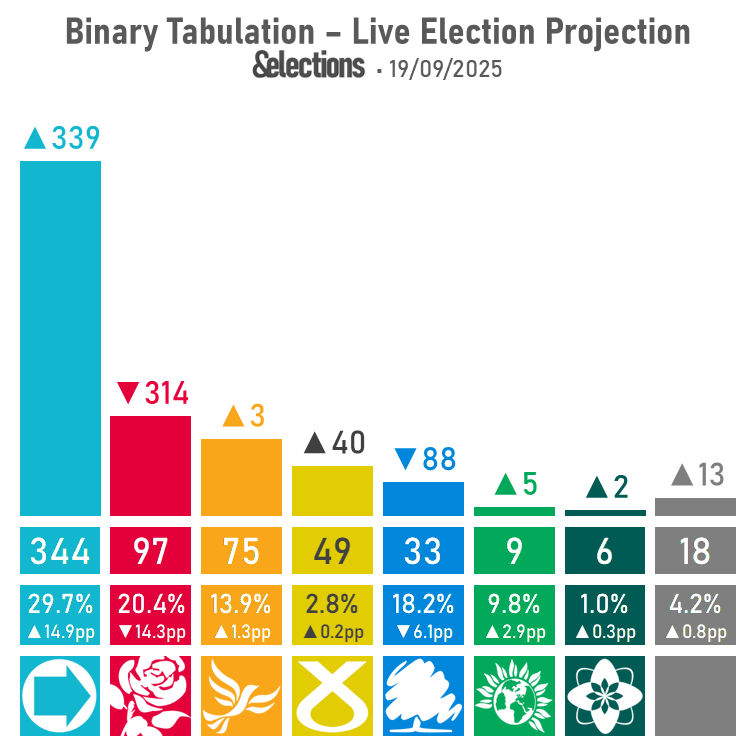
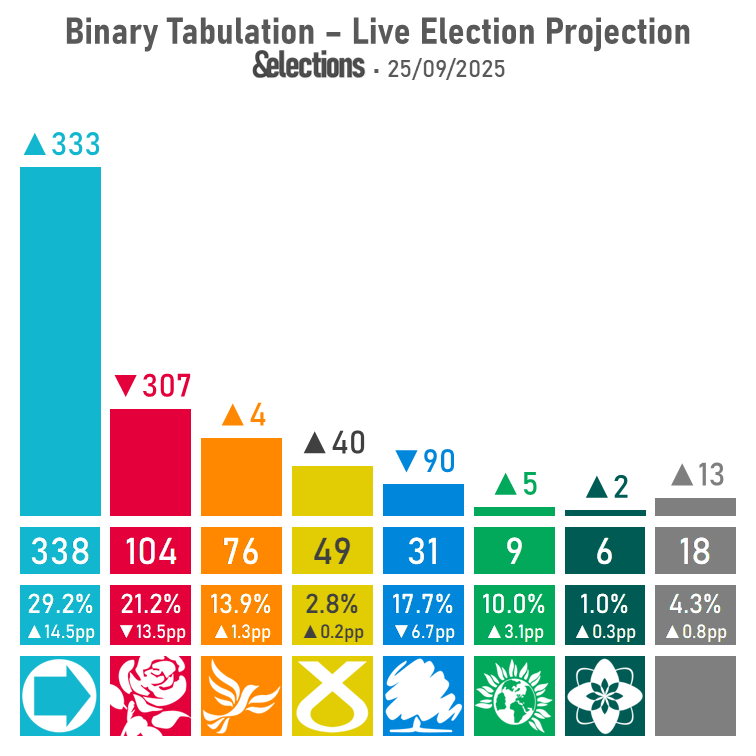
25/09/25 UK Projection
- Updated images
- Added article link

diff --git a/index.html b/index.html
@@ -371,6 +371,10 @@
                     </div>
                     <div class="datacontainer" id="data-blog">
                         <div class="blogtitles-container">
+                            <a href="https://andelections.substack.com/p/250925-uk-projection-reforms-surge" title="Open article in new tab" target="_blank" rel="noopener noreferrer">
+                                <h2>25/09/25 UK Projection: Reform's Surge Settles While Tories Plunge Further</h2>
+                                <p>25 Sep 2025 • As Reform's forecast majority softens, this week's projection is &Elections' worst-ever for the Tories and best-ever for the Greens.</p>
+                            </a>
                             <a href="https://andelections.substack.com/p/190925-uk-projection-labours-political" title="Open article in new tab" target="_blank" rel="noopener noreferrer">
                                 <h2>19/09/25 UK Projection: Labour's Political Misfortunes Catch Up to Them</h2>
                                 <p>19 Sep 2025 • Labour are down to 100 seats and Reform are forecast to win a majority of 28 as the public's verdict of the past fortnight of political turmoil is realised.</p>
